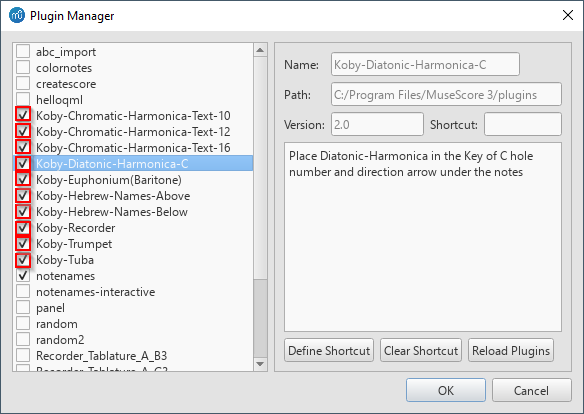
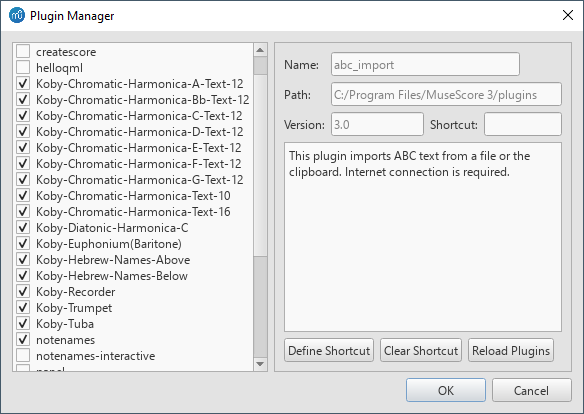
Add plugins for all common chromatic harmonica keys (with 12 holes) + mark with red ? unsupported notes on Ch.Harmonicas

diff --git a/Koby-Chromatic-Harmonica-Bb-Text-12.qml b/Koby-Chromatic-Harmonica-Bb-Text-12.qml
@@ -29,8 +29,8 @@ import MuseScore 3.0
 
 MuseScore {
       version: "2.0"
-      description: "Place Chromatic-Harmonica hole number and sharp button (#) under the notes.\nN = blow\n(N) = draw\nN# = blow + button\n(N#) = draw + button\nL1,L2,L3,L4 - are the 4 first holes on the low range (left)"
-      menuPath: "Plugins.Koby-Chromatic-Harmonica-Text-16"
+      description: "Place Chromatic-Harmonica hole number and sharp button (#) under the notes.\nN = blow\n(N) = draw\nN# = blow + button\n(N#) = draw + button"
+      menuPath:  "Plugins.Koby-Chromatic-Harmonica-Text-12." + qsTr("Key-Bb")
       pluginType: "dialog"
       
       id:window
@@ -78,9 +78,9 @@ MuseScore {
             }
         }
 
-      //                             C1   C1#  D1   D1#  E1   F1   F1#  G1   G1#  A1   A1#  B1   C2   C2#  D2   D2#  E2   F2   F2#  G2   G2#  A2   A2#  B2   C3    C3#    D3      D3#      E3    F3           F3#      G3    G3#    A3      A3#      B3      C4   C4#   D4     D4#     E4   F4         F4#     G4   G4#   A4     A4#     B4     C5            C5#       D5     D5#     E5   F5         F5#     G5   G5#   A5     A5#     B5     C6            C6#       D6     D6#     E6    F6           F6#      G6    G6#    A6      A6#      B6      C7           C7#  D7   D7#  E7   F7   F7#  G7   G7#  A7   A7#  B7   C8   C8#  D8   D8#  E8   F8   F8#  G8   G8#  A8   A8#  B8   
-      property variant fingerings : ["?", "?", "?", "?", "?", "?", "?", "?", "?", "?", "?", "?", "?", "?", "?", "?", "?", "?", "?", "?", "?", "?", "?", "?", "L1", "#L1", "(L1)", "(#L1)", "L2", "(L2)\n#L2", "(#L2)", "L3", "#L3", "(L3)", "(#L3)", "(L4)", "1", "#1", "(1)", "(#1)", "2", "(2)\n#2", "(#2)", "3", "#3", "(3)", "(#3)", "(4)", "4\n5\n(#4)", "#4\n#5", "(5)", "(#5)", "6", "(6)\n#6", "(#6)", "7", "#7", "(7)", "(#7)", "(8)", "8\n9\n(#8)", "#8\n#9", "(9)", "(#9)", "10", "(10)\n#10", "(#10)", "11", "#11", "(11)", "(#11)", "(12)", "12\n(#12)", "?", "?", "?", "?", "?", "?", "?", "?", "?", "?", "?", "?", "?", "?", "?", "?", "?", "?", "?", "?", "?", "?", "?"]
-      property variant notenames  : ["C1", "C1#", "D1", "D1#", "E1", "F1", "F1#", "G1", "G1#", "A1", "A1#", "B1", "C2", "C2#", "D2", "D2#", "E2", "F2", "F2#", "G2", "G2#", "A2", "A2#", "B2", "C3", "C3#", "D3",   "D3#",   "E3", "F3",        "F3#",   "G3", "G3#", "A3",   "A3#",   "B3",   "C4", "C4#", "D4",  "D4#",  "E4", "F4",      "F4#",  "G4", "G4#", "A4",  "A4#",  "B4",  "C5",         "C5#",    "D5",  "D5#",  "E5", "F5",      "F5#",  "G5", "G5#", "A5",  "A5#",  "B5",  "C6",         "C6#",    "D6",  "D6#",  "E6", "F6",        "F6#",   "G6", "G6#", "A6",   "A6#",   "B6",   "C7",        "C7#", "D7", "D7#", "E7", "F7", "F7#", "G7", "G7#", "A7", "A7#", "B7", "C8", "C8#", "D8", "D8#", "E8", "F8", "F8#", "G8", "G8#", "A8", "A8#", "B8"]
+      //                             C1   C1#  D1   D1#  E1   F1   F1#  G1   G1#  A1   A1#  B1   C2   C2#  D2   D2#  E2   F2   F2#  G2   G2#  A2   A2#  B2   C3   C3#  D3   D3#  E3   F3   F3#  G3   G3#  A3   A3#  B3    C4     C4#     D4   D4#        E4      F4   F4#   G4     G4#     A4     A4#           B4        C5     C5#     D5   D5#        E5      F5   F5#   G5     G5#     A5     A5#           B5        C6     C6#     D6    D6#          E6       F6    F6#    G6      G6#      A6      A6#          B6     C7   C7#  D7   D7#  E7   F7   F7#  G7   G7#  A7   A7#  B7   C8   C8#  D8   D8#  E8   F8   F8#  G8   G8#  A8   A8#  B8   
+      property variant fingerings : ["?", "?", "?", "?", "?", "?", "?", "?", "?", "?", "?", "?", "?", "?", "?", "?", "?", "?", "?", "?", "?", "?", "?", "?", "?", "?", "?", "?", "?", "?", "?", "?", "?", "?", "1", "#1", "(1)", "(#1)", "2", "#2\n(2)", "(#2)", "3", "#3", "(3)", "(#3)", "(4)", "(#4)\n4\n5", "#4\n#5", "(5)", "(#5)", "6", "#6\n(6)", "(#6)", "7", "#7", "(7)", "(#7)", "(8)", "(#8)\n8\n9", "#8\n#9", "(9)", "(#9)", "10", "#10\n(10)", "(#10)", "11", "#11", "(11)", "(#11)", "(12)", "(#12)\n12", "#12", "?", "?", "?", "?", "?", "?", "?", "?", "?", "?", "?", "?", "?", "?", "?", "?", "?", "?", "?", "?", "?", "?", "?", "?"]
+      property variant notenames  : ["C1", "C1#", "D1", "D1#", "E1", "F1", "F1#", "G1", "G1#", "A1", "A1#", "B1", "C2", "C2#", "D2", "D2#", "E2", "F2", "F2#", "G2", "G2#", "A2", "A2#", "B2", "C3", "C3#", "D3", "D3#", "E3", "F3", "F3#", "G3", "G3#", "A3", "A3#", "B3", "C4",  "C4#",  "D4", "D4#",     "E4",   "F4", "F4#", "G4",  "G4#",  "A4",  "A4#",        "B4",     "C5",  "C5#",  "D5", "D5#",     "E5",   "F5", "F5#", "G5",  "G5#",  "A5",  "A5#",        "B5",     "C6",  "C6#",  "D6", "D6#",       "E6",    "F6", "F6#", "G6",   "G6#",   "A6",   "A6#",       "B6",  "C7", "C7#", "D7", "D7#", "E7", "F7", "F7#", "G7", "G7#", "A7", "A7#", "B7", "C8", "C8#", "D8", "D8#", "E8", "F8", "F8#", "G8", "G8#", "A8", "A8#", "B8"]
 
       function placeTab(size){
 			var first_pitch = 24;
@@ -102,9 +102,9 @@ MuseScore {
 							      //var label_text = newElement(Element.LYRICS);    // Make another STAFF_TEXT
 			                      //label_text.placement=Placement.ABOVE;
 			                      //label_text.fontSize = size;
-								  //label_text.text = "\nCh.Harmo.16\nKey-C"
+								  //label_text.text = "\nCh.Harmo.12\nKey-Bb"
 								  //cursor.add(label_text);
-								  text.text += "\nCh.Harmo.16\nKey-C"
+								  text.text += "\nCh.Harmo.12\nKey-Bb"
 								  first_note = 0;
 							  }
 							  if (fingerings[index] == "?"){

diff --git a/Koby-Chromatic-Harmonica-D-Text-12.qml b/Koby-Chromatic-Harmonica-D-Text-12.qml
@@ -29,8 +29,8 @@ import MuseScore 3.0
 
 MuseScore {
       version: "2.0"
-      description: "Place Chromatic-Harmonica hole number and sharp button (#) under the notes.\nN = blow\n(N) = draw\nN# = blow + button\n(N#) = draw + button\nL1,L2,L3,L4 - are the 4 first holes on the low range (left)"
-      menuPath: "Plugins.Koby-Chromatic-Harmonica-Text-16"
+      description: "Place Chromatic-Harmonica hole number and sharp button (#) under the notes.\nN = blow\n(N) = draw\nN# = blow + button\n(N#) = draw + button"
+      menuPath:  "Plugins.Koby-Chromatic-Harmonica-Text-12." + qsTr("Key-D")
       pluginType: "dialog"
       
       id:window
@@ -78,9 +78,9 @@ MuseScore {
             }
         }
 
-      //                             C1   C1#  D1   D1#  E1   F1   F1#  G1   G1#  A1   A1#  B1   C2   C2#  D2   D2#  E2   F2   F2#  G2   G2#  A2   A2#  B2   C3    C3#    D3      D3#      E3    F3           F3#      G3    G3#    A3      A3#      B3      C4   C4#   D4     D4#     E4   F4         F4#     G4   G4#   A4     A4#     B4     C5            C5#       D5     D5#     E5   F5         F5#     G5   G5#   A5     A5#     B5     C6            C6#       D6     D6#     E6    F6           F6#      G6    G6#    A6      A6#      B6      C7           C7#  D7   D7#  E7   F7   F7#  G7   G7#  A7   A7#  B7   C8   C8#  D8   D8#  E8   F8   F8#  G8   G8#  A8   A8#  B8   
-      property variant fingerings : ["?", "?", "?", "?", "?", "?", "?", "?", "?", "?", "?", "?", "?", "?", "?", "?", "?", "?", "?", "?", "?", "?", "?", "?", "L1", "#L1", "(L1)", "(#L1)", "L2", "(L2)\n#L2", "(#L2)", "L3", "#L3", "(L3)", "(#L3)", "(L4)", "1", "#1", "(1)", "(#1)", "2", "(2)\n#2", "(#2)", "3", "#3", "(3)", "(#3)", "(4)", "4\n5\n(#4)", "#4\n#5", "(5)", "(#5)", "6", "(6)\n#6", "(#6)", "7", "#7", "(7)", "(#7)", "(8)", "8\n9\n(#8)", "#8\n#9", "(9)", "(#9)", "10", "(10)\n#10", "(#10)", "11", "#11", "(11)", "(#11)", "(12)", "12\n(#12)", "?", "?", "?", "?", "?", "?", "?", "?", "?", "?", "?", "?", "?", "?", "?", "?", "?", "?", "?", "?", "?", "?", "?"]
-      property variant notenames  : ["C1", "C1#", "D1", "D1#", "E1", "F1", "F1#", "G1", "G1#", "A1", "A1#", "B1", "C2", "C2#", "D2", "D2#", "E2", "F2", "F2#", "G2", "G2#", "A2", "A2#", "B2", "C3", "C3#", "D3",   "D3#",   "E3", "F3",        "F3#",   "G3", "G3#", "A3",   "A3#",   "B3",   "C4", "C4#", "D4",  "D4#",  "E4", "F4",      "F4#",  "G4", "G4#", "A4",  "A4#",  "B4",  "C5",         "C5#",    "D5",  "D5#",  "E5", "F5",      "F5#",  "G5", "G5#", "A5",  "A5#",  "B5",  "C6",         "C6#",    "D6",  "D6#",  "E6", "F6",        "F6#",   "G6", "G6#", "A6",   "A6#",   "B6",   "C7",        "C7#", "D7", "D7#", "E7", "F7", "F7#", "G7", "G7#", "A7", "A7#", "B7", "C8", "C8#", "D8", "D8#", "E8", "F8", "F8#", "G8", "G8#", "A8", "A8#", "B8"]
+      //                             C1   C1#  D1   D1#  E1   F1   F1#  G1   G1#  A1   A1#  B1   C2   C2#  D2   D2#  E2   F2   F2#  G2   G2#  A2   A2#  B2   C3   C3#  D3   D3#  E3   F3   F3#  G3   G3#  A3   A3#  B3   C4   C4#  D4   D4#   E4     F4      F4#  G4         G4#     A4   A4#   B4     C5      C5#    D5            D5#       E5     F5      F5#  G5         G5#     A5   A5#   B5     C6      C6#    D6            D6#       E6     F6      F6#   G6           G6#      A6    A6#    B6      C7       C7#     D7           D7#    E7   F7   F7#  G7   G7#  A7   A7#  B7   C8   C8#  D8   D8#  E8   F8   F8#  G8   G8#  A8   A8#  B8   
+      property variant fingerings : ["?", "?", "?", "?", "?", "?", "?", "?", "?", "?", "?", "?", "?", "?", "?", "?", "?", "?", "?", "?", "?", "?", "?", "?", "?", "?", "?", "?", "?", "?", "?", "?", "?", "?", "?", "?", "?", "?", "1", "#1", "(1)", "(#1)", "2", "#2\n(2)", "(#2)", "3", "#3", "(3)", "(#3)", "(4)", "(#4)\n4\n5", "#4\n#5", "(5)", "(#5)", "6", "#6\n(6)", "(#6)", "7", "#7", "(7)", "(#7)", "(8)", "(#8)\n8\n9", "#8\n#9", "(9)", "(#9)", "10", "#10\n(10)", "(#10)", "11", "#11", "(11)", "(#11)", "(12)", "(#12)\n12", "#12", "?", "?", "?", "?", "?", "?", "?", "?", "?", "?", "?", "?", "?", "?", "?", "?", "?", "?", "?", "?"]
+      property variant notenames  : ["C1", "C1#", "D1", "D1#", "E1", "F1", "F1#", "G1", "G1#", "A1", "A1#", "B1", "C2", "C2#", "D2", "D2#", "E2", "F2", "F2#", "G2", "G2#", "A2", "A2#", "B2", "C3", "C3#", "D3", "D3#", "E3", "F3", "F3#", "G3", "G3#", "A3", "A3#", "B3", "C4", "C4#", "D4", "D4#", "E4",  "F4",   "F4#", "G4",      "G4#",  "A4", "A4#", "B4",  "C5",   "C5#", "D5",         "D5#",    "E5",  "F5",   "F5#", "G5",      "G5#",  "A5", "A5#", "B5",  "C6",   "C6#", "D6",         "D6#",    "E6",  "F6",   "F6#", "G6",        "G6#",   "A6", "A6#", "B6",   "C7",    "C7#",  "D7",        "D7#", "E7", "F7", "F7#", "G7", "G7#", "A7", "A7#", "B7", "C8", "C8#", "D8", "D8#", "E8", "F8", "F8#", "G8", "G8#", "A8", "A8#", "B8"]
 
       function placeTab(size){
 			var first_pitch = 24;
@@ -102,9 +102,9 @@ MuseScore {
 							      //var label_text = newElement(Element.LYRICS);    // Make another STAFF_TEXT
 			                      //label_text.placement=Placement.ABOVE;
 			                      //label_text.fontSize = size;
-								  //label_text.text = "\nCh.Harmo.16\nKey-C"
+								  //label_text.text = "\nCh.Harmo.12\nKey-D"
 								  //cursor.add(label_text);
-								  text.text += "\nCh.Harmo.16\nKey-C"
+								  text.text += "\nCh.Harmo.12\nKey-D"
 								  first_note = 0;
 							  }
 							  if (fingerings[index] == "?"){

diff --git a/Koby-Chromatic-Harmonica-A-Text-12.qml b/Koby-Chromatic-Harmonica-A-Text-12.qml
@@ -29,8 +29,8 @@ import MuseScore 3.0
 
 MuseScore {
       version: "2.0"
-      description: "Place Chromatic-Harmonica hole number and sharp button (#) under the notes.\nN = blow\n(N) = draw\nN# = blow + button\n(N#) = draw + button\nL1,L2,L3,L4 - are the 4 first holes on the low range (left)"
-      menuPath: "Plugins.Koby-Chromatic-Harmonica-Text-16"
+      description: "Place Chromatic-Harmonica hole number and sharp button (#) under the notes.\nN = blow\n(N) = draw\nN# = blow + button\n(N#) = draw + button"
+      menuPath:  "Plugins.Koby-Chromatic-Harmonica-Text-12." + qsTr("Key-A")
       pluginType: "dialog"
       
       id:window
@@ -78,9 +78,9 @@ MuseScore {
             }
         }
 
-      //                             C1   C1#  D1   D1#  E1   F1   F1#  G1   G1#  A1   A1#  B1   C2   C2#  D2   D2#  E2   F2   F2#  G2   G2#  A2   A2#  B2   C3    C3#    D3      D3#      E3    F3           F3#      G3    G3#    A3      A3#      B3      C4   C4#   D4     D4#     E4   F4         F4#     G4   G4#   A4     A4#     B4     C5            C5#       D5     D5#     E5   F5         F5#     G5   G5#   A5     A5#     B5     C6            C6#       D6     D6#     E6    F6           F6#      G6    G6#    A6      A6#      B6      C7           C7#  D7   D7#  E7   F7   F7#  G7   G7#  A7   A7#  B7   C8   C8#  D8   D8#  E8   F8   F8#  G8   G8#  A8   A8#  B8   
-      property variant fingerings : ["?", "?", "?", "?", "?", "?", "?", "?", "?", "?", "?", "?", "?", "?", "?", "?", "?", "?", "?", "?", "?", "?", "?", "?", "L1", "#L1", "(L1)", "(#L1)", "L2", "(L2)\n#L2", "(#L2)", "L3", "#L3", "(L3)", "(#L3)", "(L4)", "1", "#1", "(1)", "(#1)", "2", "(2)\n#2", "(#2)", "3", "#3", "(3)", "(#3)", "(4)", "4\n5\n(#4)", "#4\n#5", "(5)", "(#5)", "6", "(6)\n#6", "(#6)", "7", "#7", "(7)", "(#7)", "(8)", "8\n9\n(#8)", "#8\n#9", "(9)", "(#9)", "10", "(10)\n#10", "(#10)", "11", "#11", "(11)", "(#11)", "(12)", "12\n(#12)", "?", "?", "?", "?", "?", "?", "?", "?", "?", "?", "?", "?", "?", "?", "?", "?", "?", "?", "?", "?", "?", "?", "?"]
-      property variant notenames  : ["C1", "C1#", "D1", "D1#", "E1", "F1", "F1#", "G1", "G1#", "A1", "A1#", "B1", "C2", "C2#", "D2", "D2#", "E2", "F2", "F2#", "G2", "G2#", "A2", "A2#", "B2", "C3", "C3#", "D3",   "D3#",   "E3", "F3",        "F3#",   "G3", "G3#", "A3",   "A3#",   "B3",   "C4", "C4#", "D4",  "D4#",  "E4", "F4",      "F4#",  "G4", "G4#", "A4",  "A4#",  "B4",  "C5",         "C5#",    "D5",  "D5#",  "E5", "F5",      "F5#",  "G5", "G5#", "A5",  "A5#",  "B5",  "C6",         "C6#",    "D6",  "D6#",  "E6", "F6",        "F6#",   "G6", "G6#", "A6",   "A6#",   "B6",   "C7",        "C7#", "D7", "D7#", "E7", "F7", "F7#", "G7", "G7#", "A7", "A7#", "B7", "C8", "C8#", "D8", "D8#", "E8", "F8", "F8#", "G8", "G8#", "A8", "A8#", "B8"]
+      //                             C1   C1#  D1   D1#  E1   F1   F1#  G1   G1#  A1   A1#  B1   C2   C2#  D2   D2#  E2   F2   F2#  G2   G2#  A2   A2#  B2   C3   C3#  D3   D3#  E3   F3   F3#  G3   G3#  A3   A3#   B3     C4      C4#  D4         D4#     E4   F4    F4#    G4      G4#    A4            A4#       B4     C5      C5#  D5         D5#     E5   F5    F5#    G5      G5#    A5            A5#       B5     C6      C6#   D6           D6#      E6    F6     F6#     G6       G6#     A6           A6#    B6   C7   C7#  D7   D7#  E7   F7   F7#  G7   G7#  A7   A7#  B7   C8   C8#  D8   D8#  E8   F8   F8#  G8   G8#  A8   A8#  B8   
+      property variant fingerings : ["?", "?", "?", "?", "?", "?", "?", "?", "?", "?", "?", "?", "?", "?", "?", "?", "?", "?", "?", "?", "?", "?", "?", "?", "?", "?", "?", "?", "?", "?", "?", "?", "?", "1", "#1", "(1)", "(#1)", "2", "#2\n(2)", "(#2)", "3", "#3", "(3)", "(#3)", "(4)", "(#4)\n4\n5", "#4\n#5", "(5)", "(#5)", "6", "#6\n(6)", "(#6)", "7", "#7", "(7)", "(#7)", "(8)", "(#8)\n8\n9", "#8\n#9", "(9)", "(#9)", "10", "#10\n(10)", "(#10)", "11", "#11", "(11)", "(#11)", "(12)", "(#12)\n12", "#12", "?", "?", "?", "?", "?", "?", "?", "?", "?", "?", "?", "?", "?", "?", "?", "?", "?", "?", "?", "?", "?", "?", "?", "?", "?"]
+      property variant notenames  : ["C1", "C1#", "D1", "D1#", "E1", "F1", "F1#", "G1", "G1#", "A1", "A1#", "B1", "C2", "C2#", "D2", "D2#", "E2", "F2", "F2#", "G2", "G2#", "A2", "A2#", "B2", "C3", "C3#", "D3", "D3#", "E3", "F3", "F3#", "G3", "G3#", "A3", "A3#", "B3",  "C4",   "C4#", "D4",      "D4#",  "E4", "F4", "F4#", "G4",   "G4#", "A4",         "A4#",    "B4",  "C5",   "C5#", "D5",      "D5#",  "E5", "F5", "F5#", "G5",   "G5#", "A5",         "A5#",    "B5",  "C6",   "C6#", "D6",        "D6#",   "E6", "F6",  "F6#",  "G6",    "G6#",  "A6",        "A6#", "B6", "C7", "C7#", "D7", "D7#", "E7", "F7", "F7#", "G7", "G7#", "A7", "A7#", "B7", "C8", "C8#", "D8", "D8#", "E8", "F8", "F8#", "G8", "G8#", "A8", "A8#", "B8"]
 
       function placeTab(size){
 			var first_pitch = 24;
@@ -102,9 +102,9 @@ MuseScore {
 							      //var label_text = newElement(Element.LYRICS);    // Make another STAFF_TEXT
 			                      //label_text.placement=Placement.ABOVE;
 			                      //label_text.fontSize = size;
-								  //label_text.text = "\nCh.Harmo.16\nKey-C"
+								  //label_text.text = "\nCh.Harmo.12\nKey-A"
 								  //cursor.add(label_text);
-								  text.text += "\nCh.Harmo.16\nKey-C"
+								  text.text += "\nCh.Harmo.12\nKey-A"
 								  first_note = 0;
 							  }
 							  if (fingerings[index] == "?"){

diff --git a/Koby-Chromatic-Harmonica-C-Text-12.qml b/Koby-Chromatic-Harmonica-C-Text-12.qml
@@ -29,8 +29,8 @@ import MuseScore 3.0
 
 MuseScore {
       version: "2.0"
-      description: "Place Chromatic-Harmonica hole number and sharp button (#) under the notes.\nN = blow\n(N) = draw\nN# = blow + button\n(N#) = draw + button\nL1,L2,L3,L4 - are the 4 first holes on the low range (left)"
-      menuPath: "Plugins.Koby-Chromatic-Harmonica-Text-16"
+      description: "Place Chromatic-Harmonica hole number and sharp button (#) under the notes.\nN = blow\n(N) = draw\nN# = blow + button\n(N#) = draw + button"
+      menuPath:  "Plugins.Koby-Chromatic-Harmonica-Text-12." + qsTr("Key-C")
       pluginType: "dialog"
       
       id:window
@@ -78,9 +78,9 @@ MuseScore {
             }
         }
 
-      //                             C1   C1#  D1   D1#  E1   F1   F1#  G1   G1#  A1   A1#  B1   C2   C2#  D2   D2#  E2   F2   F2#  G2   G2#  A2   A2#  B2   C3    C3#    D3      D3#      E3    F3           F3#      G3    G3#    A3      A3#      B3      C4   C4#   D4     D4#     E4   F4         F4#     G4   G4#   A4     A4#     B4     C5            C5#       D5     D5#     E5   F5         F5#     G5   G5#   A5     A5#     B5     C6            C6#       D6     D6#     E6    F6           F6#      G6    G6#    A6      A6#      B6      C7           C7#  D7   D7#  E7   F7   F7#  G7   G7#  A7   A7#  B7   C8   C8#  D8   D8#  E8   F8   F8#  G8   G8#  A8   A8#  B8   
-      property variant fingerings : ["?", "?", "?", "?", "?", "?", "?", "?", "?", "?", "?", "?", "?", "?", "?", "?", "?", "?", "?", "?", "?", "?", "?", "?", "L1", "#L1", "(L1)", "(#L1)", "L2", "(L2)\n#L2", "(#L2)", "L3", "#L3", "(L3)", "(#L3)", "(L4)", "1", "#1", "(1)", "(#1)", "2", "(2)\n#2", "(#2)", "3", "#3", "(3)", "(#3)", "(4)", "4\n5\n(#4)", "#4\n#5", "(5)", "(#5)", "6", "(6)\n#6", "(#6)", "7", "#7", "(7)", "(#7)", "(8)", "8\n9\n(#8)", "#8\n#9", "(9)", "(#9)", "10", "(10)\n#10", "(#10)", "11", "#11", "(11)", "(#11)", "(12)", "12\n(#12)", "?", "?", "?", "?", "?", "?", "?", "?", "?", "?", "?", "?", "?", "?", "?", "?", "?", "?", "?", "?", "?", "?", "?"]
-      property variant notenames  : ["C1", "C1#", "D1", "D1#", "E1", "F1", "F1#", "G1", "G1#", "A1", "A1#", "B1", "C2", "C2#", "D2", "D2#", "E2", "F2", "F2#", "G2", "G2#", "A2", "A2#", "B2", "C3", "C3#", "D3",   "D3#",   "E3", "F3",        "F3#",   "G3", "G3#", "A3",   "A3#",   "B3",   "C4", "C4#", "D4",  "D4#",  "E4", "F4",      "F4#",  "G4", "G4#", "A4",  "A4#",  "B4",  "C5",         "C5#",    "D5",  "D5#",  "E5", "F5",      "F5#",  "G5", "G5#", "A5",  "A5#",  "B5",  "C6",         "C6#",    "D6",  "D6#",  "E6", "F6",        "F6#",   "G6", "G6#", "A6",   "A6#",   "B6",   "C7",        "C7#", "D7", "D7#", "E7", "F7", "F7#", "G7", "G7#", "A7", "A7#", "B7", "C8", "C8#", "D8", "D8#", "E8", "F8", "F8#", "G8", "G8#", "A8", "A8#", "B8"]
+      //                             C1   C1#  D1   D1#  E1   F1   F1#  G1   G1#  A1   A1#  B1   C2   C2#  D2   D2#  E2   F2   F2#  G2   G2#  A2   A2#  B2   C3   C3#  D3   D3#  E3   F3   F3#  G3   G3#  A3   A3#  B3   C4   C4#   D4     D4#     E4   F4         F4#     G4   G4#   A4     A4#     B4     C5            C5#       D5     D5#     E5   F5         F5#     G5   G5#   A5     A5#     B5     C6            C6#       D6     D6#     E6    F6           F6#      G6    G6#    A6      A6#      B6      C7           C7#    D7   D7#  E7   F7   F7#  G7   G7#  A7   A7#  B7   C8   C8#  D8   D8#  E8   F8   F8#  G8   G8#  A8   A8#  B8   
+      property variant fingerings : ["?", "?", "?", "?", "?", "?", "?", "?", "?", "?", "?", "?", "?", "?", "?", "?", "?", "?", "?", "?", "?", "?", "?", "?", "?", "?", "?", "?", "?", "?", "?", "?", "?", "?", "?", "?", "1", "#1", "(1)", "(#1)", "2", "#2\n(2)", "(#2)", "3", "#3", "(3)", "(#3)", "(4)", "(#4)\n4\n5", "#4\n#5", "(5)", "(#5)", "6", "#6\n(6)", "(#6)", "7", "#7", "(7)", "(#7)", "(8)", "(#8)\n8\n9", "#8\n#9", "(9)", "(#9)", "10", "#10\n(10)", "(#10)", "11", "#11", "(11)", "(#11)", "(12)", "(#12)\n12", "#12", "?", "?", "?", "?", "?", "?", "?", "?", "?", "?", "?", "?", "?", "?", "?", "?", "?", "?", "?", "?", "?", "?"]
+      property variant notenames  : ["C1", "C1#", "D1", "D1#", "E1", "F1", "F1#", "G1", "G1#", "A1", "A1#", "B1", "C2", "C2#", "D2", "D2#", "E2", "F2", "F2#", "G2", "G2#", "A2", "A2#", "B2", "C3", "C3#", "D3", "D3#", "E3", "F3", "F3#", "G3", "G3#", "A3", "A3#", "B3", "C4", "C4#", "D4",  "D4#",  "E4", "F4",      "F4#",  "G4", "G4#", "A4",  "A4#",  "B4",  "C5",         "C5#",    "D5",  "D5#",  "E5", "F5",      "F5#",  "G5", "G5#", "A5",  "A5#",  "B5",  "C6",         "C6#",    "D6",  "D6#",  "E6", "F6",        "F6#",   "G6", "G6#", "A6",   "A6#",   "B6",   "C7",        "C7#", "D7", "D7#", "E7", "F7", "F7#", "G7", "G7#", "A7", "A7#", "B7", "C8", "C8#", "D8", "D8#", "E8", "F8", "F8#", "G8", "G8#", "A8", "A8#", "B8"]
 
       function placeTab(size){
 			var first_pitch = 24;
@@ -102,9 +102,9 @@ MuseScore {
 							      //var label_text = newElement(Element.LYRICS);    // Make another STAFF_TEXT
 			                      //label_text.placement=Placement.ABOVE;
 			                      //label_text.fontSize = size;
-								  //label_text.text = "\nCh.Harmo.16\nKey-C"
+								  //label_text.text = "\nCh.Harmo.12\nKey-C"
 								  //cursor.add(label_text);
-								  text.text += "\nCh.Harmo.16\nKey-C"
+								  text.text += "\nCh.Harmo.12\nKey-C"
 								  first_note = 0;
 							  }
 							  if (fingerings[index] == "?"){

diff --git a/Koby-Chromatic-Harmonica-F-Text-12.qml b/Koby-Chromatic-Harmonica-F-Text-12.qml
@@ -29,8 +29,8 @@ import MuseScore 3.0
 
 MuseScore {
       version: "2.0"
-      description: "Place Chromatic-Harmonica hole number and sharp button (#) under the notes.\nN = blow\n(N) = draw\nN# = blow + button\n(N#) = draw + button\nL1,L2,L3,L4 - are the 4 first holes on the low range (left)"
-      menuPath: "Plugins.Koby-Chromatic-Harmonica-Text-16"
+      description: "Place Chromatic-Harmonica hole number and sharp button (#) under the notes.\nN = blow\n(N) = draw\nN# = blow + button\n(N#) = draw + button"
+      menuPath:  "Plugins.Koby-Chromatic-Harmonica-Text-12." + qsTr("Key-F")
       pluginType: "dialog"
       
       id:window
@@ -78,9 +78,9 @@ MuseScore {
             }
         }
 
-      //                             C1   C1#  D1   D1#  E1   F1   F1#  G1   G1#  A1   A1#  B1   C2   C2#  D2   D2#  E2   F2   F2#  G2   G2#  A2   A2#  B2   C3    C3#    D3      D3#      E3    F3           F3#      G3    G3#    A3      A3#      B3      C4   C4#   D4     D4#     E4   F4         F4#     G4   G4#   A4     A4#     B4     C5            C5#       D5     D5#     E5   F5         F5#     G5   G5#   A5     A5#     B5     C6            C6#       D6     D6#     E6    F6           F6#      G6    G6#    A6      A6#      B6      C7           C7#  D7   D7#  E7   F7   F7#  G7   G7#  A7   A7#  B7   C8   C8#  D8   D8#  E8   F8   F8#  G8   G8#  A8   A8#  B8   
-      property variant fingerings : ["?", "?", "?", "?", "?", "?", "?", "?", "?", "?", "?", "?", "?", "?", "?", "?", "?", "?", "?", "?", "?", "?", "?", "?", "L1", "#L1", "(L1)", "(#L1)", "L2", "(L2)\n#L2", "(#L2)", "L3", "#L3", "(L3)", "(#L3)", "(L4)", "1", "#1", "(1)", "(#1)", "2", "(2)\n#2", "(#2)", "3", "#3", "(3)", "(#3)", "(4)", "4\n5\n(#4)", "#4\n#5", "(5)", "(#5)", "6", "(6)\n#6", "(#6)", "7", "#7", "(7)", "(#7)", "(8)", "8\n9\n(#8)", "#8\n#9", "(9)", "(#9)", "10", "(10)\n#10", "(#10)", "11", "#11", "(11)", "(#11)", "(12)", "12\n(#12)", "?", "?", "?", "?", "?", "?", "?", "?", "?", "?", "?", "?", "?", "?", "?", "?", "?", "?", "?", "?", "?", "?", "?"]
-      property variant notenames  : ["C1", "C1#", "D1", "D1#", "E1", "F1", "F1#", "G1", "G1#", "A1", "A1#", "B1", "C2", "C2#", "D2", "D2#", "E2", "F2", "F2#", "G2", "G2#", "A2", "A2#", "B2", "C3", "C3#", "D3",   "D3#",   "E3", "F3",        "F3#",   "G3", "G3#", "A3",   "A3#",   "B3",   "C4", "C4#", "D4",  "D4#",  "E4", "F4",      "F4#",  "G4", "G4#", "A4",  "A4#",  "B4",  "C5",         "C5#",    "D5",  "D5#",  "E5", "F5",      "F5#",  "G5", "G5#", "A5",  "A5#",  "B5",  "C6",         "C6#",    "D6",  "D6#",  "E6", "F6",        "F6#",   "G6", "G6#", "A6",   "A6#",   "B6",   "C7",        "C7#", "D7", "D7#", "E7", "F7", "F7#", "G7", "G7#", "A7", "A7#", "B7", "C8", "C8#", "D8", "D8#", "E8", "F8", "F8#", "G8", "G8#", "A8", "A8#", "B8"]
+      //                             C1   C1#  D1   D1#  E1   F1   F1#  G1   G1#  A1   A1#  B1   C2   C2#  D2   D2#  E2   F2   F2#  G2   G2#  A2   A2#  B2   C3   C3#  D3   D3#  E3   F3   F3#  G3   G3#  A3   A3#  B3   C4   C4#  D4   D4#  E4   F4   F4#   G4     G4#     A4   A4#        B4      C5   C5#   D5     D5#     E5     F5            F5#       G5     G5#     A5   A5#        B5      C6   C6#   D6     D6#     E6     F6            F6#       G6     G6#     A6    A6#          B6       C7    C7#    D7      D7#      E7      F7           F7#    G7   G7#  A7   A7#  B7   C8   C8#  D8   D8#  E8   F8   F8#  G8   G8#  A8   A8#  B8   
+      property variant fingerings : ["?", "?", "?", "?", "?", "?", "?", "?", "?", "?", "?", "?", "?", "?", "?", "?", "?", "?", "?", "?", "?", "?", "?", "?", "?", "?", "?", "?", "?", "?", "?", "?", "?", "?", "?", "?", "?", "?", "?", "?", "?", "1", "#1", "(1)", "(#1)", "2", "#2\n(2)", "(#2)", "3", "#3", "(3)", "(#3)", "(4)", "(#4)\n4\n5", "#4\n#5", "(5)", "(#5)", "6", "#6\n(6)", "(#6)", "7", "#7", "(7)", "(#7)", "(8)", "(#8)\n8\n9", "#8\n#9", "(9)", "(#9)", "10", "#10\n(10)", "(#10)", "11", "#11", "(11)", "(#11)", "(12)", "(#12)\n12", "#12", "?", "?", "?", "?", "?", "?", "?", "?", "?", "?", "?", "?", "?", "?", "?", "?", "?"]
+      property variant notenames  : ["C1", "C1#", "D1", "D1#", "E1", "F1", "F1#", "G1", "G1#", "A1", "A1#", "B1", "C2", "C2#", "D2", "D2#", "E2", "F2", "F2#", "G2", "G2#", "A2", "A2#", "B2", "C3", "C3#", "D3", "D3#", "E3", "F3", "F3#", "G3", "G3#", "A3", "A3#", "B3", "C4", "C4#", "D4", "D4#", "E4", "F4", "F4#", "G4",  "G4#",  "A4", "A4#",     "B4",   "C5", "C5#", "D5",  "D5#",  "E5",  "F5",         "F5#",    "G5",  "G5#",  "A5", "A5#",     "B5",   "C6", "C6#", "D6",  "D6#",  "E6",  "F6",         "F6#",    "G6",  "G6#",  "A6", "A6#",       "B6",    "C7", "C7#", "D7",   "D7#",   "E7",   "F7",        "F7#", "G7", "G7#", "A7", "A7#", "B7", "C8", "C8#", "D8", "D8#", "E8", "F8", "F8#", "G8", "G8#", "A8", "A8#", "B8"]
 
       function placeTab(size){
 			var first_pitch = 24;
@@ -102,9 +102,9 @@ MuseScore {
 							      //var label_text = newElement(Element.LYRICS);    // Make another STAFF_TEXT
 			                      //label_text.placement=Placement.ABOVE;
 			                      //label_text.fontSize = size;
-								  //label_text.text = "\nCh.Harmo.16\nKey-C"
+								  //label_text.text = "\nCh.Harmo.12\nKey-F"
 								  //cursor.add(label_text);
-								  text.text += "\nCh.Harmo.16\nKey-C"
+								  text.text += "\nCh.Harmo.12\nKey-F"
 								  first_note = 0;
 							  }
 							  if (fingerings[index] == "?"){

diff --git a/Koby-Chromatic-Harmonica-G-Text-12.qml b/Koby-Chromatic-Harmonica-G-Text-12.qml
@@ -29,8 +29,8 @@ import MuseScore 3.0
 
 MuseScore {
       version: "2.0"
-      description: "Place Chromatic-Harmonica hole number and sharp button (#) under the notes.\nN = blow\n(N) = draw\nN# = blow + button\n(N#) = draw + button\nL1,L2,L3,L4 - are the 4 first holes on the low range (left)"
-      menuPath: "Plugins.Koby-Chromatic-Harmonica-Text-16"
+      description: "Place Chromatic-Harmonica hole number and sharp button (#) under the notes.\nN = blow\n(N) = draw\nN# = blow + button\n(N#) = draw + button"
+      menuPath:  "Plugins.Koby-Chromatic-Harmonica-Text-12." + qsTr("Key-G")
       pluginType: "dialog"
       
       id:window
@@ -78,9 +78,9 @@ MuseScore {
             }
         }
 
-      //                             C1   C1#  D1   D1#  E1   F1   F1#  G1   G1#  A1   A1#  B1   C2   C2#  D2   D2#  E2   F2   F2#  G2   G2#  A2   A2#  B2   C3    C3#    D3      D3#      E3    F3           F3#      G3    G3#    A3      A3#      B3      C4   C4#   D4     D4#     E4   F4         F4#     G4   G4#   A4     A4#     B4     C5            C5#       D5     D5#     E5   F5         F5#     G5   G5#   A5     A5#     B5     C6            C6#       D6     D6#     E6    F6           F6#      G6    G6#    A6      A6#      B6      C7           C7#  D7   D7#  E7   F7   F7#  G7   G7#  A7   A7#  B7   C8   C8#  D8   D8#  E8   F8   F8#  G8   G8#  A8   A8#  B8   
-      property variant fingerings : ["?", "?", "?", "?", "?", "?", "?", "?", "?", "?", "?", "?", "?", "?", "?", "?", "?", "?", "?", "?", "?", "?", "?", "?", "L1", "#L1", "(L1)", "(#L1)", "L2", "(L2)\n#L2", "(#L2)", "L3", "#L3", "(L3)", "(#L3)", "(L4)", "1", "#1", "(1)", "(#1)", "2", "(2)\n#2", "(#2)", "3", "#3", "(3)", "(#3)", "(4)", "4\n5\n(#4)", "#4\n#5", "(5)", "(#5)", "6", "(6)\n#6", "(#6)", "7", "#7", "(7)", "(#7)", "(8)", "8\n9\n(#8)", "#8\n#9", "(9)", "(#9)", "10", "(10)\n#10", "(#10)", "11", "#11", "(11)", "(#11)", "(12)", "12\n(#12)", "?", "?", "?", "?", "?", "?", "?", "?", "?", "?", "?", "?", "?", "?", "?", "?", "?", "?", "?", "?", "?", "?", "?"]
-      property variant notenames  : ["C1", "C1#", "D1", "D1#", "E1", "F1", "F1#", "G1", "G1#", "A1", "A1#", "B1", "C2", "C2#", "D2", "D2#", "E2", "F2", "F2#", "G2", "G2#", "A2", "A2#", "B2", "C3", "C3#", "D3",   "D3#",   "E3", "F3",        "F3#",   "G3", "G3#", "A3",   "A3#",   "B3",   "C4", "C4#", "D4",  "D4#",  "E4", "F4",      "F4#",  "G4", "G4#", "A4",  "A4#",  "B4",  "C5",         "C5#",    "D5",  "D5#",  "E5", "F5",      "F5#",  "G5", "G5#", "A5",  "A5#",  "B5",  "C6",         "C6#",    "D6",  "D6#",  "E6", "F6",        "F6#",   "G6", "G6#", "A6",   "A6#",   "B6",   "C7",        "C7#", "D7", "D7#", "E7", "F7", "F7#", "G7", "G7#", "A7", "A7#", "B7", "C8", "C8#", "D8", "D8#", "E8", "F8", "F8#", "G8", "G8#", "A8", "A8#", "B8"]
+      //                             C1   C1#  D1   D1#  E1   F1   F1#  G1   G1#  A1   A1#  B1   C2   C2#  D2   D2#  E2   F2   F2#  G2   G2#  A2   A2#  B2   C3   C3#  D3   D3#  E3   F3   F3#  G3   G3#   A3     A3#     B3   C4         C4#     D4   D4#   E4     F4      F4#    G4            G4#       A4     A4#     B4   C5         C5#     D5   D5#   E5     F5      F5#    G5            G5#       A5     A5#     B5    C6           C6#      D6    D6#    E6      F6       F6#     G6           G6#    A6   A6#  B6   C7   C7#  D7   D7#  E7   F7   F7#  G7   G7#  A7   A7#  B7   C8   C8#  D8   D8#  E8   F8   F8#  G8   G8#  A8   A8#  B8   
+      property variant fingerings : ["?", "?", "?", "?", "?", "?", "?", "?", "?", "?", "?", "?", "?", "?", "?", "?", "?", "?", "?", "?", "?", "?", "?", "?", "?", "?", "?", "?", "?", "?", "?", "1", "#1", "(1)", "(#1)", "2", "#2\n(2)", "(#2)", "3", "#3", "(3)", "(#3)", "(4)", "(#4)\n4\n5", "#4\n#5", "(5)", "(#5)", "6", "#6\n(6)", "(#6)", "7", "#7", "(7)", "(#7)", "(8)", "(#8)\n8\n9", "#8\n#9", "(9)", "(#9)", "10", "#10\n(10)", "(#10)", "11", "#11", "(11)", "(#11)", "(12)", "(#12)\n12", "#12", "?", "?", "?", "?", "?", "?", "?", "?", "?", "?", "?", "?", "?", "?", "?", "?", "?", "?", "?", "?", "?", "?", "?", "?", "?", "?", "?"]
+      property variant notenames  : ["C1", "C1#", "D1", "D1#", "E1", "F1", "F1#", "G1", "G1#", "A1", "A1#", "B1", "C2", "C2#", "D2", "D2#", "E2", "F2", "F2#", "G2", "G2#", "A2", "A2#", "B2", "C3", "C3#", "D3", "D3#", "E3", "F3", "F3#", "G3", "G3#", "A3",  "A3#",  "B3", "C4",      "C4#",  "D4", "D4#", "E4",  "F4",   "F4#", "G4",         "G4#",    "A4",  "A4#",  "B4", "C5",      "C5#",  "D5", "D5#", "E5",  "F5",   "F5#", "G5",         "G5#",    "A5",  "A5#",  "B5", "C6",        "C6#",   "D6", "D6#", "E6",   "F6",    "F6#",  "G6",        "G6#", "A6", "A6#", "B6", "C7", "C7#", "D7", "D7#", "E7", "F7", "F7#", "G7", "G7#", "A7", "A7#", "B7", "C8", "C8#", "D8", "D8#", "E8", "F8", "F8#", "G8", "G8#", "A8", "A8#", "B8"]
 
       function placeTab(size){
 			var first_pitch = 24;
@@ -102,9 +102,9 @@ MuseScore {
 							      //var label_text = newElement(Element.LYRICS);    // Make another STAFF_TEXT
 			                      //label_text.placement=Placement.ABOVE;
 			                      //label_text.fontSize = size;
-								  //label_text.text = "\nCh.Harmo.16\nKey-C"
+								  //label_text.text = "\nCh.Harmo.12\nKey-G"
 								  //cursor.add(label_text);
-								  text.text += "\nCh.Harmo.16\nKey-C"
+								  text.text += "\nCh.Harmo.12\nKey-G"
 								  first_note = 0;
 							  }
 							  if (fingerings[index] == "?"){

diff --git a/Koby-Chromatic-Harmonica-E-Text-12.qml b/Koby-Chromatic-Harmonica-E-Text-12.qml
@@ -30,7 +30,7 @@ import MuseScore 3.0
 MuseScore {
       version: "2.0"
       description: "Place Chromatic-Harmonica hole number and sharp button (#) under the notes.\nN = blow\n(N) = draw\nN# = blow + button\n(N#) = draw + button"
-      menuPath: "Plugins.Koby-Chromatic-Harmonica-Text-12"
+      menuPath:  "Plugins.Koby-Chromatic-Harmonica-Text-12." + qsTr("Key-E")
       pluginType: "dialog"
       
       id:window
@@ -78,22 +78,38 @@ MuseScore {
             }
         }
 
-      //                              C4   C4#   D4     D4#     E4   F4         F4#     G4   G4#   A4     A4#     B4     C5            C5#       D5     D5#     E5   F5         F5#     G5   G5#   A5     A5#     B5     C6            C6#       D6     D6#     E6    F6           F6#      G6    G6#    A6      A6#      B6      C7           
-      property variant fingerings : ["1", "#1", "(1)", "(#1)", "2", "(2)\n#2", "(#2)", "3", "#3", "(3)", "(#3)", "(4)", "4\n5\n(#4)", "#4\n#5", "(5)", "(#5)", "6", "(6)\n#6", "(#6)", "7", "#7", "(7)", "(#7)", "(8)", "8\n9\n(#8)", "#8\n#9", "(9)", "(#9)", "10", "(10)\n#10", "(#10)", "11", "#11", "(11)", "(#11)", "(12)", "12\n(#12)"]
+      //                             C1   C1#  D1   D1#  E1   F1   F1#  G1   G1#  A1   A1#  B1   C2   C2#  D2   D2#  E2   F2   F2#  G2   G2#  A2   A2#  B2   C3   C3#  D3   D3#  E3   F3   F3#  G3   G3#  A3   A3#  B3   C4   C4#  D4   D4#  E4   F4    F4#    G4      G4#  A4         A4#     B4   C5    C5#    D5      D5#    E5            F5        F5#    G5      G5#  A5         A5#     B5   C6    C6#    D6      D6#    E6            F6        F6#    G6      G6#   A6           A6#      B6    C7     C7#     D7       D7#     E7           F7     F7#  G7   G7#  A7   A7#  B7   C8   C8#  D8   D8#  E8   F8   F8#  G8   G8#  A8   A8#  B8   
+      property variant fingerings : ["?", "?", "?", "?", "?", "?", "?", "?", "?", "?", "?", "?", "?", "?", "?", "?", "?", "?", "?", "?", "?", "?", "?", "?", "?", "?", "?", "?", "?", "?", "?", "?", "?", "?", "?", "?", "?", "?", "?", "?", "1", "#1", "(1)", "(#1)", "2", "#2\n(2)", "(#2)", "3", "#3", "(3)", "(#3)", "(4)", "(#4)\n4\n5", "#4\n#5", "(5)", "(#5)", "6", "#6\n(6)", "(#6)", "7", "#7", "(7)", "(#7)", "(8)", "(#8)\n8\n9", "#8\n#9", "(9)", "(#9)", "10", "#10\n(10)", "(#10)", "11", "#11", "(11)", "(#11)", "(12)", "(#12)\n12", "#12", "?", "?", "?", "?", "?", "?", "?", "?", "?", "?", "?", "?", "?", "?", "?", "?", "?", "?"]
+      property variant notenames  : ["C1", "C1#", "D1", "D1#", "E1", "F1", "F1#", "G1", "G1#", "A1", "A1#", "B1", "C2", "C2#", "D2", "D2#", "E2", "F2", "F2#", "G2", "G2#", "A2", "A2#", "B2", "C3", "C3#", "D3", "D3#", "E3", "F3", "F3#", "G3", "G3#", "A3", "A3#", "B3", "C4", "C4#", "D4", "D4#", "E4", "F4", "F4#", "G4",   "G4#", "A4",      "A4#",  "B4", "C5", "C5#", "D5",   "D5#", "E5",         "F5",     "F5#", "G5",   "G5#", "A5",      "A5#",  "B5", "C6", "C6#", "D6",   "D6#", "E6",         "F6",     "F6#", "G6",   "G6#", "A6",        "A6#",   "B6", "C7",  "C7#",  "D7",    "D7#",  "E7",        "F7",  "F7#", "G7", "G7#", "A7", "A7#", "B7", "C8", "C8#", "D8", "D8#", "E8", "F8", "F8#", "G8", "G8#", "A8", "A8#", "B8"]
+
       function placeTab(size){
+			var first_pitch = 24;
             var cursor   = curScore.newCursor();
+			var first_note = 1;
             cursor.staffIdx = 0; // start on first staff
             cursor.voice = 0; // hope that only one voice in score, for recorder :)
             cursor.rewind(0);  // set cursor to start of score
             while (cursor.segment) { // in end segment is null
                   if (cursor.element._name() == "Chord") {
                         var pitch = cursor.element.notes[0].pitch;
-                        var index = pitch - 60;
+                        var index = pitch - first_pitch;
                         if(index >= 0 && index < fingerings.length){ 
                               var text = newElement(Element.LYRICS);
                               text.fontSize = size;
                               text.fontFace = "KobyMusic"; //"KobyMusic"; "Bravura";
                               text.text = fingerings[index];
+							  if (first_note){
+							      //var label_text = newElement(Element.LYRICS);    // Make another STAFF_TEXT
+			                      //label_text.placement=Placement.ABOVE;
+			                      //label_text.fontSize = size;
+								  //label_text.text = "\nCh.Harmo.12\nKey-E"
+								  //cursor.add(label_text);
+								  text.text += "\nCh.Harmo.12\nKey-E"
+								  first_note = 0;
+							  }
+							  if (fingerings[index] == "?"){
+								text.color = "red";
+							  }
 							  console.log(text.text);
                               //text.offsetY = -10;
                               //text.placement=Placement.BELOW;

diff --git a/Koby-Chromatic-Harmonica-Text-10.qml b/Koby-Chromatic-Harmonica-Text-10.qml
@@ -78,22 +78,38 @@ MuseScore {
             }
         }
 
-      //                              C4   C4#   D4     D4#     E4   F4         F4#     G4   G4#   A4     A4#     B4     C5            C5#       D5     D5#     E5   F5         F5#     G5   G5#   A5     A5#     B5     C6         C6#   D6     D6#     E6   F6          F6#      G6    G6#    A6   A6#  B6   C7           
-      property variant fingerings : ["1", "#1", "(1)", "(#1)", "2", "(2)\n#2", "(#2)", "3", "#3", "(3)", "(#3)", "(4)", "4\n5\n(#4)", "#4\n#5", "(5)", "(#5)", "6", "(6)\n#6", "(#6)", "7", "#7", "(7)", "(#7)", "(8)", "8\n(#8)", "#8", "(9)", "(#9)", "9", "(10)\n#9", "(#10)", "10", "#10", "?", "?", "?", "12\n(#12)"]
+      //                             C1   C1#  D1   D1#  E1   F1   F1#  G1   G1#  A1   A1#  B1   C2   C2#  D2   D2#  E2   F2   F2#  G2   G2#  A2   A2#  B2   C3   C3#  D3   D3#  E3   F3   F3#  G3   G3#  A3   A3#  B3   C4   C4#   D4     D4#     E4   F4         F4#     G4   G4#   A4     A4#     B4     C5            C5#       D5     D5#     E5   F5         F5#     G5   G5#   A5     A5#     B5     C6         C6#   D6     D6#     E6   F6          F6#      G6    G6#    A6   A6#  B6   C7           C7#  D7   D7#  E7   F7   F7#  G7   G7#  A7   A7#  B7   C8   C8#  D8   D8#  E8   F8   F8#  G8   G8#  A8   A8#  B8   
+      property variant fingerings : ["?", "?", "?", "?", "?", "?", "?", "?", "?", "?", "?", "?", "?", "?", "?", "?", "?", "?", "?", "?", "?", "?", "?", "?", "?", "?", "?", "?", "?", "?", "?", "?", "?", "?", "?", "?", "1", "#1", "(1)", "(#1)", "2", "(2)\n#2", "(#2)", "3", "#3", "(3)", "(#3)", "(4)", "4\n5\n(#4)", "#4\n#5", "(5)", "(#5)", "6", "(6)\n#6", "(#6)", "7", "#7", "(7)", "(#7)", "(8)", "8\n(#8)", "#8", "(9)", "(#9)", "9", "(10)\n#9", "(#10)", "10", "#10", "?", "?", "?", "12\n(#12)", "?", "?", "?", "?", "?", "?", "?", "?", "?", "?", "?", "?", "?", "?", "?", "?", "?", "?", "?", "?", "?", "?", "?"]
+      property variant notenames  : ["C1", "C1#", "D1", "D1#", "E1", "F1", "F1#", "G1", "G1#", "A1", "A1#", "B1", "C2", "C2#", "D2", "D2#", "E2", "F2", "F2#", "G2", "G2#", "A2", "A2#", "B2", "C3", "C3#", "D3", "D3#", "E3", "F3", "F3#", "G3", "G3#", "A3", "A3#", "B3", "C4", "C4#", "D4",  "D4#",  "E4", "F4",      "F4#",  "G4", "G4#", "A4",  "A4#",  "B4",  "C5",         "C5#",    "D5",  "D5#",  "E5", "F5",      "F5#",  "G5", "G5#", "A5",  "A5#",  "B5",  "C6",      "C6#", "D6",  "D6#",  "E6", "F6",       "F6#",   "G6", "G6#", "A6", "A6#", "B6", "C7",        "C7#", "D7", "D7#", "E7", "F7", "F7#", "G7", "G7#", "A7", "A7#", "B7", "C8", "C8#", "D8", "D8#", "E8", "F8", "F8#", "G8", "G8#", "A8", "A8#", "B8"]
+
       function placeTab(size){
+			var first_pitch = 24;
             var cursor   = curScore.newCursor();
+			var first_note = 1;
             cursor.staffIdx = 0; // start on first staff
             cursor.voice = 0; // hope that only one voice in score, for recorder :)
             cursor.rewind(0);  // set cursor to start of score
             while (cursor.segment) { // in end segment is null
                   if (cursor.element._name() == "Chord") {
                         var pitch = cursor.element.notes[0].pitch;
-                        var index = pitch - 60;
+                        var index = pitch - first_pitch;
                         if(index >= 0 && index < fingerings.length){ 
                               var text = newElement(Element.LYRICS);
                               text.fontSize = size;
                               text.fontFace = "KobyMusic"; //"KobyMusic"; "Bravura";
                               text.text = fingerings[index];
+							  if (first_note){
+							      //var label_text = newElement(Element.LYRICS);    // Make another STAFF_TEXT
+			                      //label_text.placement=Placement.ABOVE;
+			                      //label_text.fontSize = size;
+								  //label_text.text = "\nCh.Harmo.10\nKey-C"
+								  //cursor.add(label_text);
+								  text.text += "\nCh.Harmo.10\nKey-C"
+								  first_note = 0;
+							  }
+							  if (fingerings[index] == "?"){
+								text.color = "red";
+							  }
 							  console.log(text.text);
                               //text.offsetY = -10;
                               //text.placement=Placement.BELOW;

diff --git a/README.md b/README.md
@@ -9,8 +9,14 @@ Requirements: MuseScore 3.x
 4. Go to Plugins menu > Plugin Manager > Check the plugins you want to add to the menu:
     - "Koby-Diatonic-Harmonica-C"
     - "Koby-Chromatic-Harmonica-Text-10"  (Text format, i.e. without arrows)
-    - "Koby-Chromatic-Harmonica-Text-12"  (Text format, i.e. without arrows)
     - "Koby-Chromatic-Harmonica-Text-16"  (Text format, i.e. without arrows)
+    - "Koby-Chromatic-Harmonica-A-Text-12"  (Text format, i.e. without arrows)
+    - "Koby-Chromatic-Harmonica-Bb-Text-12"  (Text format, i.e. without arrows)
+    - "Koby-Chromatic-Harmonica-C-Text-12"  (Text format, i.e. without arrows)
+    - "Koby-Chromatic-Harmonica-D-Text-12"  (Text format, i.e. without arrows)
+    - "Koby-Chromatic-Harmonica-E-Text-12"  (Text format, i.e. without arrows)
+    - "Koby-Chromatic-Harmonica-F-Text-12"  (Text format, i.e. without arrows)
+    - "Koby-Chromatic-Harmonica-G-Text-12"  (Text format, i.e. without arrows)
     - "Koby-Recorder"
     - "Koby-Trumpet"
     - "Koby-Euphonium(Baritone)"
@@ -47,7 +53,9 @@ Output - Chromatic Harmonica 10 Holes (Text Only format):
 
 ![Tux, the GUI](/screenshots/screenshot-chromatic-10.png)
 
-Output - Chromatic Harmonica 12 Holes (Text Only format):
+Output - Chromatic Harmonica 12 Holes (Text Only format), supports all common keys:
+
+![Tux, the GUI](/screenshots/screenshot-chromatic-12-menu.png)
 
 ![Tux, the GUI](/screenshots/screenshot-chromatic-12.png)
 
